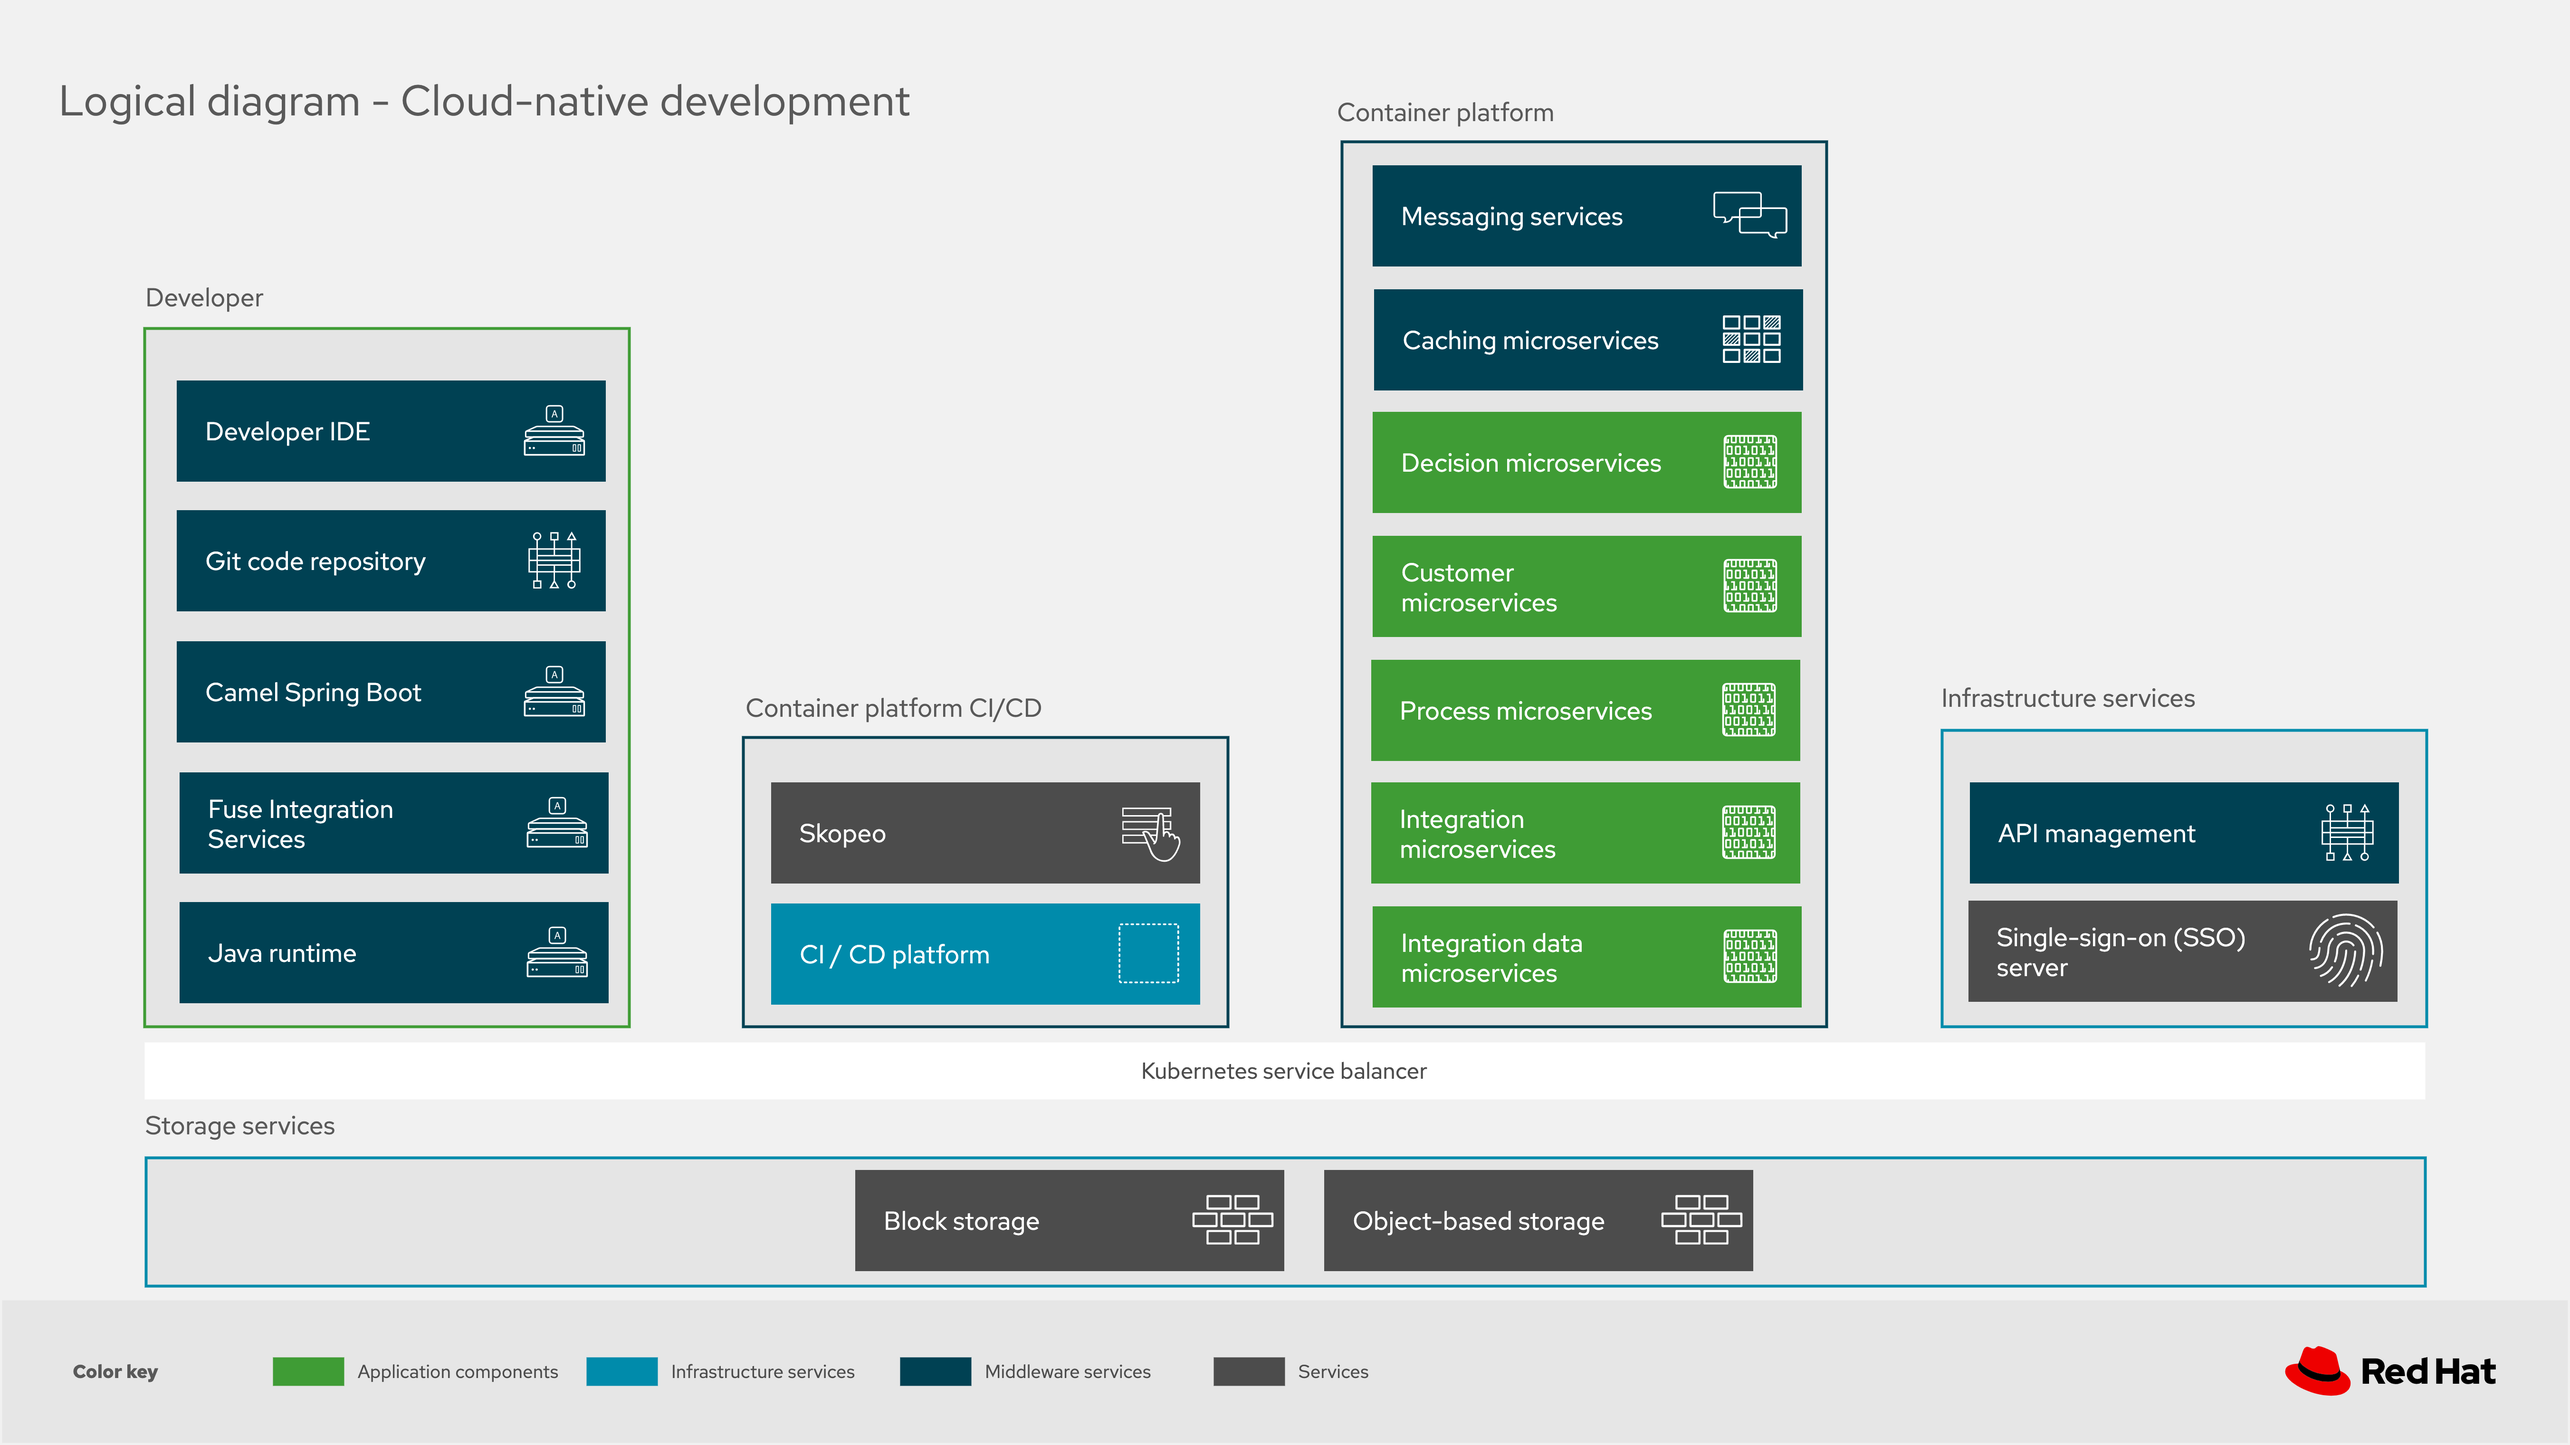
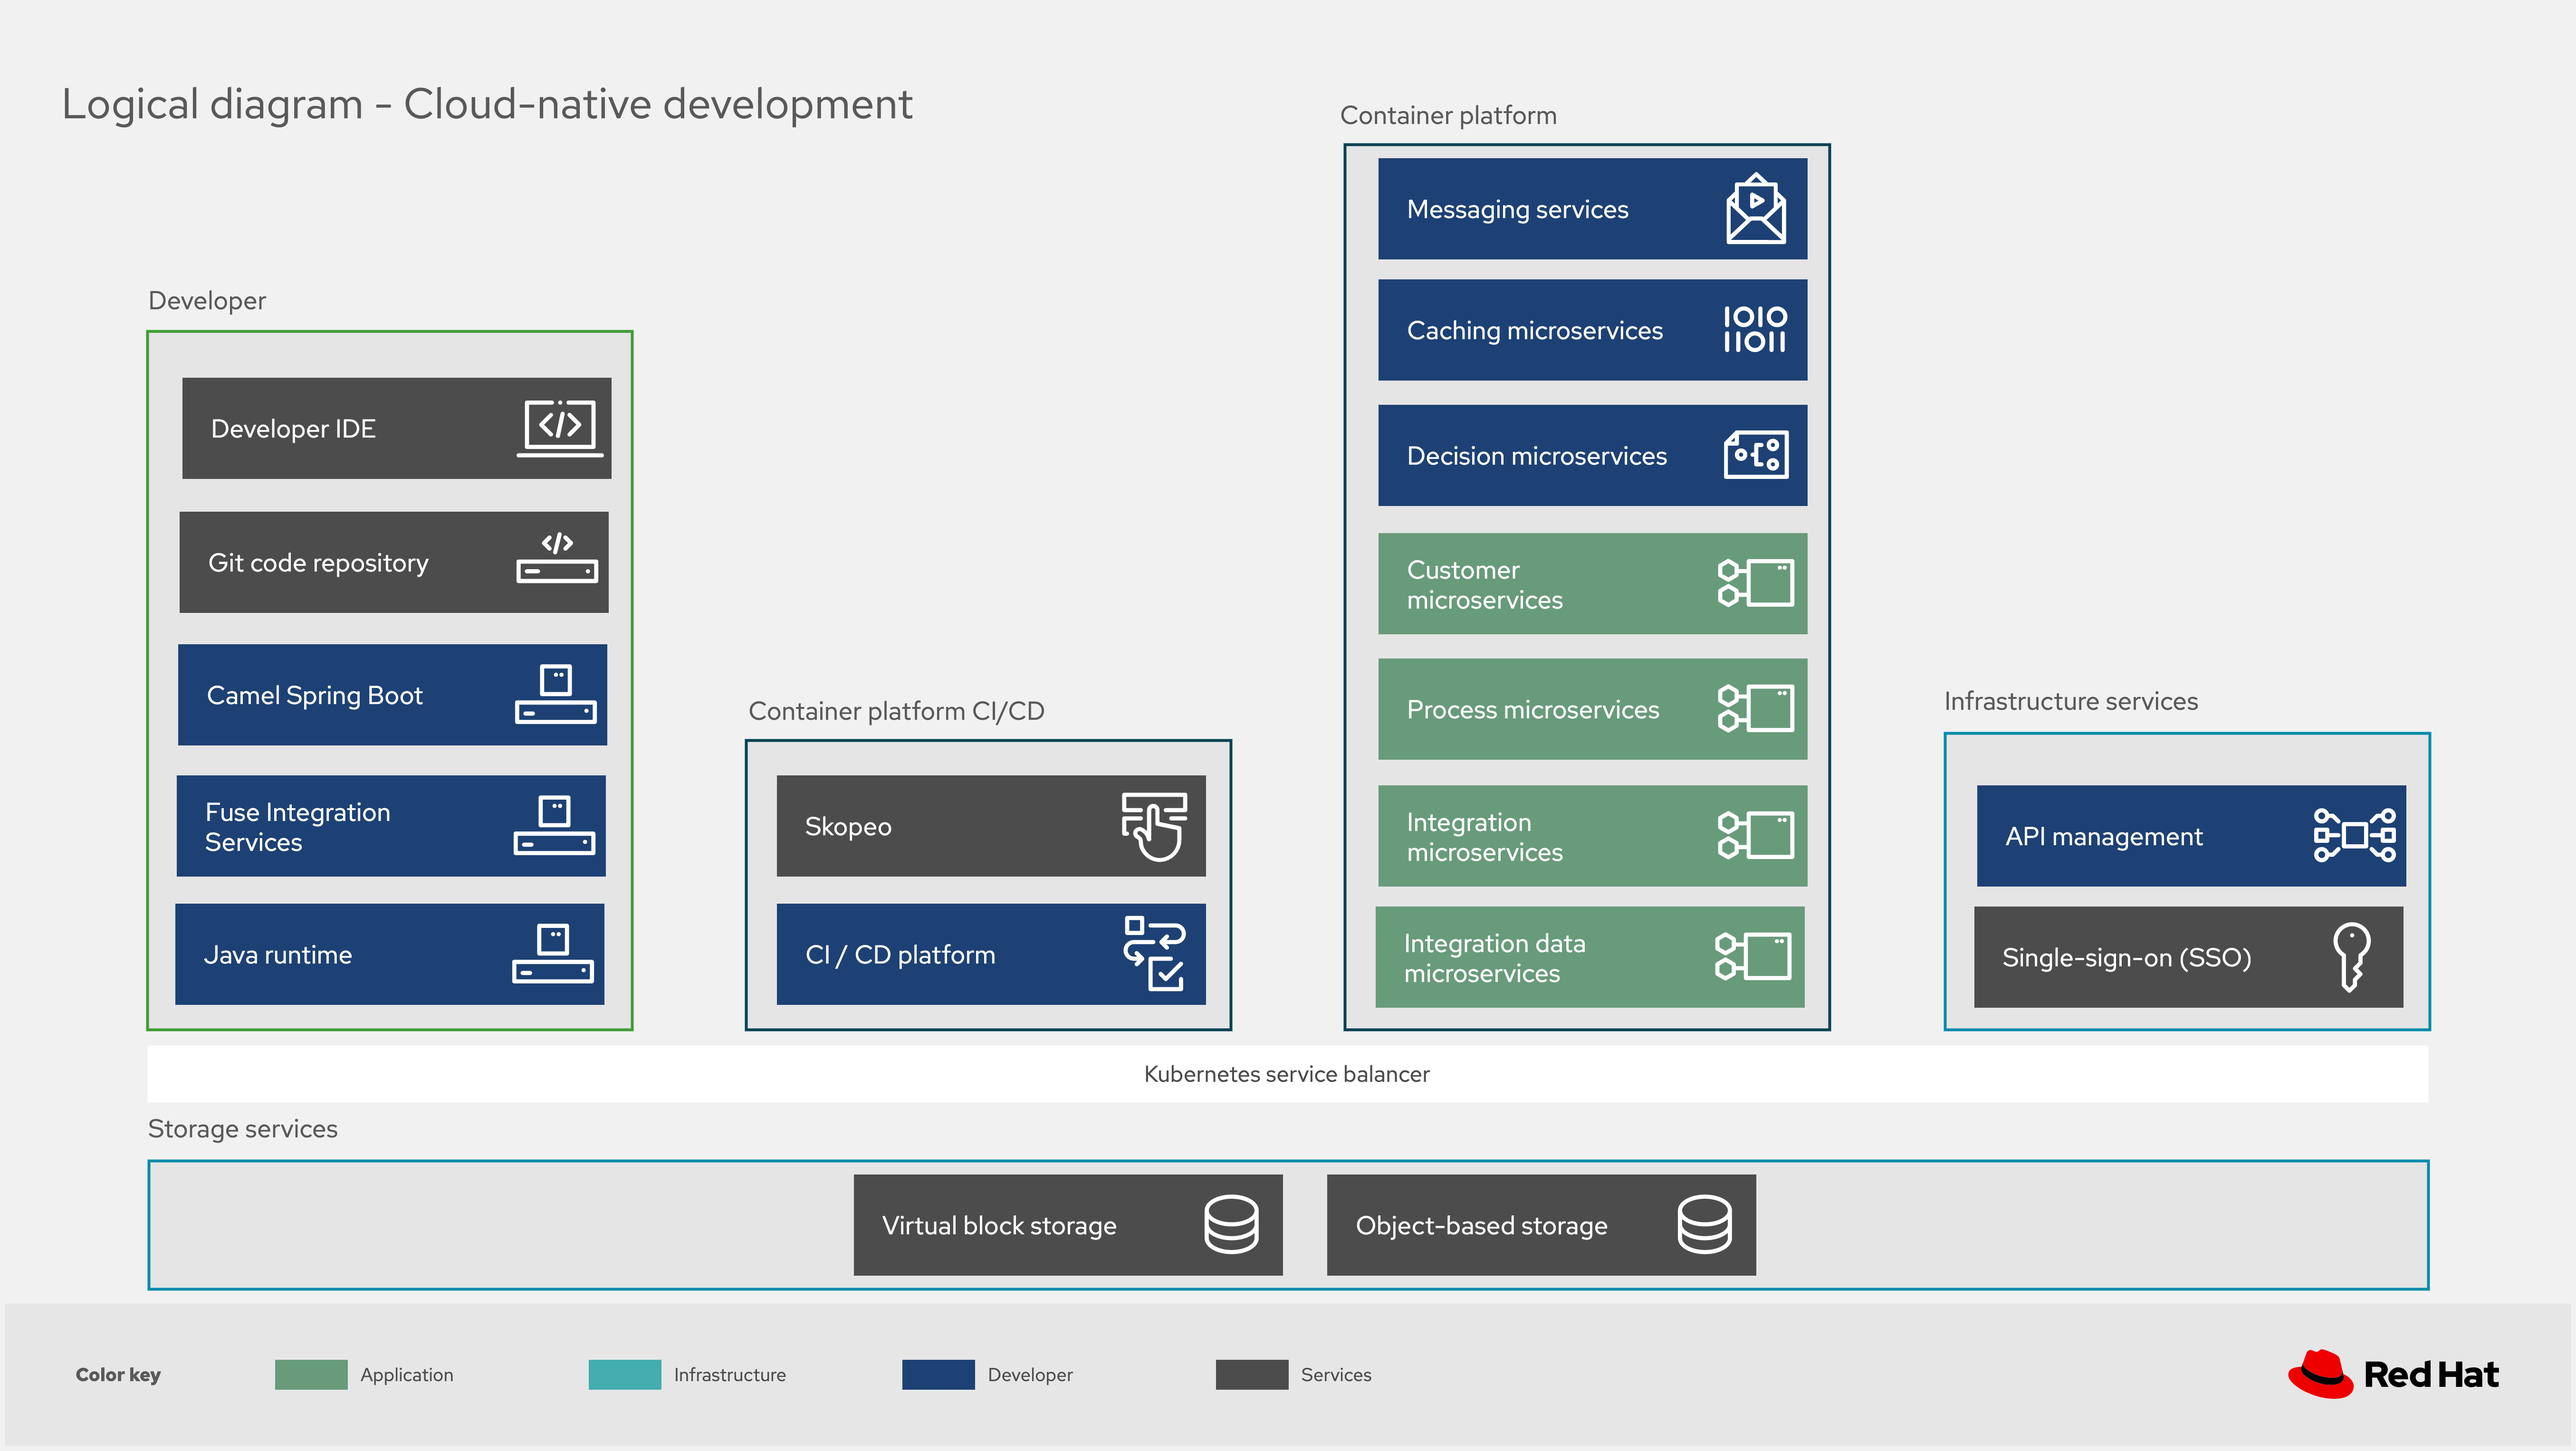
Updated LD's for cloud-native dev blueprint.

diff --git a/README.md b/README.md
@@ -23,6 +23,7 @@ Images that can be used for slides (click to enlarge an image):
 [ [Load Diagram](https://redhatdemocentral.gitlab.io/portfolio-architecture-tooling/index.html?#/portfolio-architecture-examples/projects/logical-diagram-cloud-native-development.drawio) ]  [  [Download Diagram](https://gitlab.com/redhatdemocentral/portfolio-architecture-examples/-/raw/master/diagrams/logical-diagram-cloud-native-development.drawio?inline=false)  ]
 
 <img src="images/logical-diagrams/cloud-native-development-ld.png" border="2" width="150" height="100">
+<img src="images/logical-diagrams/cloud-native-development-details-ld.png" border="2" width="150" height="100">
 
 ### Logical diagram (Integrate SaaS applications):
 
